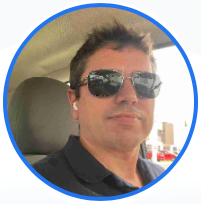
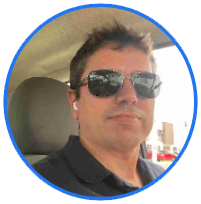
update css
clase de css

diff --git a/index.html b/index.html
@@ -4,29 +4,43 @@
     <meta charset="UTF-8">
     <meta http-equiv="X-UA-Compatible" content="IE=edge">
     <meta name="viewport" content="width=device-width, initial-scale=1.0">
+    <link rel="stylesheet" href="styles.css">
+    <link rel="preconnect" href="https://fonts.googleapis.com"> 
+    <link rel="preconnect" href="https://fonts.gstatic.com" crossorigin> 
+    <link href="https://fonts.googleapis.com/css2?family=Quicksand:wght@300;400;600;700&display=swap" rel="stylesheet">
     <title>Eduardo Estevez</title>
 </head>
 <body>
-    <h1><center>Bienvenido a mi espacio</center> </h1>
-    <center><img src="miperfil.png" alt="Mi imagen"></center>
-    <h2><center>Eduardo Estevez</center> </h2>
-    <p>
-    <center>Como apasionado creador de sitios web, he dedicado más de una 
-        década a diseñar y desarrollar soluciones web innovadoras y efectivas.</br>
-         Mi enfoque siempre ha sido el usuario, creando experiencias digitales 
-         intuitivas y atractivas que satisfacen las necesidades específicas 
-         de cada cliente. </br>Me enorgullece ser un líder 
-         creativo en la comunidad tecnológica, compartiendo mi conocimiento y 
-         fomentando el crecimiento de la industria web en México. </br>
-         Mi compromiso con la excelencia y mi pasión por la tecnología me 
-         impulsan a ser un recurso valioso en cualquier proyecto digital...
-    </center></br>  </p>  </br>
+    <header>
+    </br><h1 id="titulo"><center>Bienvenido a mi espacio</center> </h1></header>
+    <section style="padding-left: 65px;">
+        <table width="95%" align="center" border="0" cellspacing="70" >
+            <tbody>
+              <tr>
+                <td width="20%"><img align="center" src="miperfil.png" alt="Mi imagen">
+                    <h2><center>Eduardo Estevez</center> </h2></td>
+                <td width="80%"><p align="center" class="parrafo" >
+                    Como apasionado creador de sitios web, he dedicado más de una 
+                        década a diseñar y desarrollar soluciones web innovadoras y efectivas</br>
+                         Mi enfoque siempre ha sido el usuario, creando experiencias digitales 
+                         intuitivas y atractivas que satisfacen las necesidades específicas 
+                         de cada cliente... Me enorgullece ser un líder 
+                         creativo en la comunidad tecnológica, compartiendo mi conocimiento y 
+                         fomentando el crecimiento de la industria web en México... 
+                         Mi compromiso con la excelencia y mi pasión por la tecnología me 
+                         impulsan a ser un recurso valioso en cualquier proyecto digital...
+                     </p></td>
+              </tr>
+            </tbody>
+          </table>
+    </section>
+<section>
     <h3><center>Conoce mi proyecto personal</center> </h3>
 <center><ul>
     <li><a href="https://www.internet360.com.mx">www.internet360.com.mx</a> -> Desarrollo Web</li></br>
    
 </ul></center>
-
+</section>
 
 
 </body>

diff --git a/styles.css b/styles.css
@@ -1,0 +1,40 @@
+*{
+    font-family: 'Quicksand', Helvetica, sans-serif;
+}
+
+body{
+    background-color: lightgray;
+}
+
+#titulo{
+    color: blue;
+}
+/*aqui voy a poner mis estilos */
+
+.foto{
+    
+    box-shadow: 5px 10px 10px #c0c0c0;
+    
+}
+
+.parrafo{
+    
+    width: 80%;
+    height: 200px;
+    background-color: rgb(236, 235, 235);
+    border: 2px solid rgb(192, 191, 191);
+    border-radius: 10px;
+    box-shadow: 5px 10px 10px #c0c0c0;
+    font-size: 18px;
+    color: rgb(104, 104, 104);
+    padding-top: 25px;
+    padding-left: 50px;
+    padding-right: 50px;
+}
+
+.card{
+    width: 90%;
+    height: 150px;
+    border: 2px;
+    border-radius: 10;
+}
